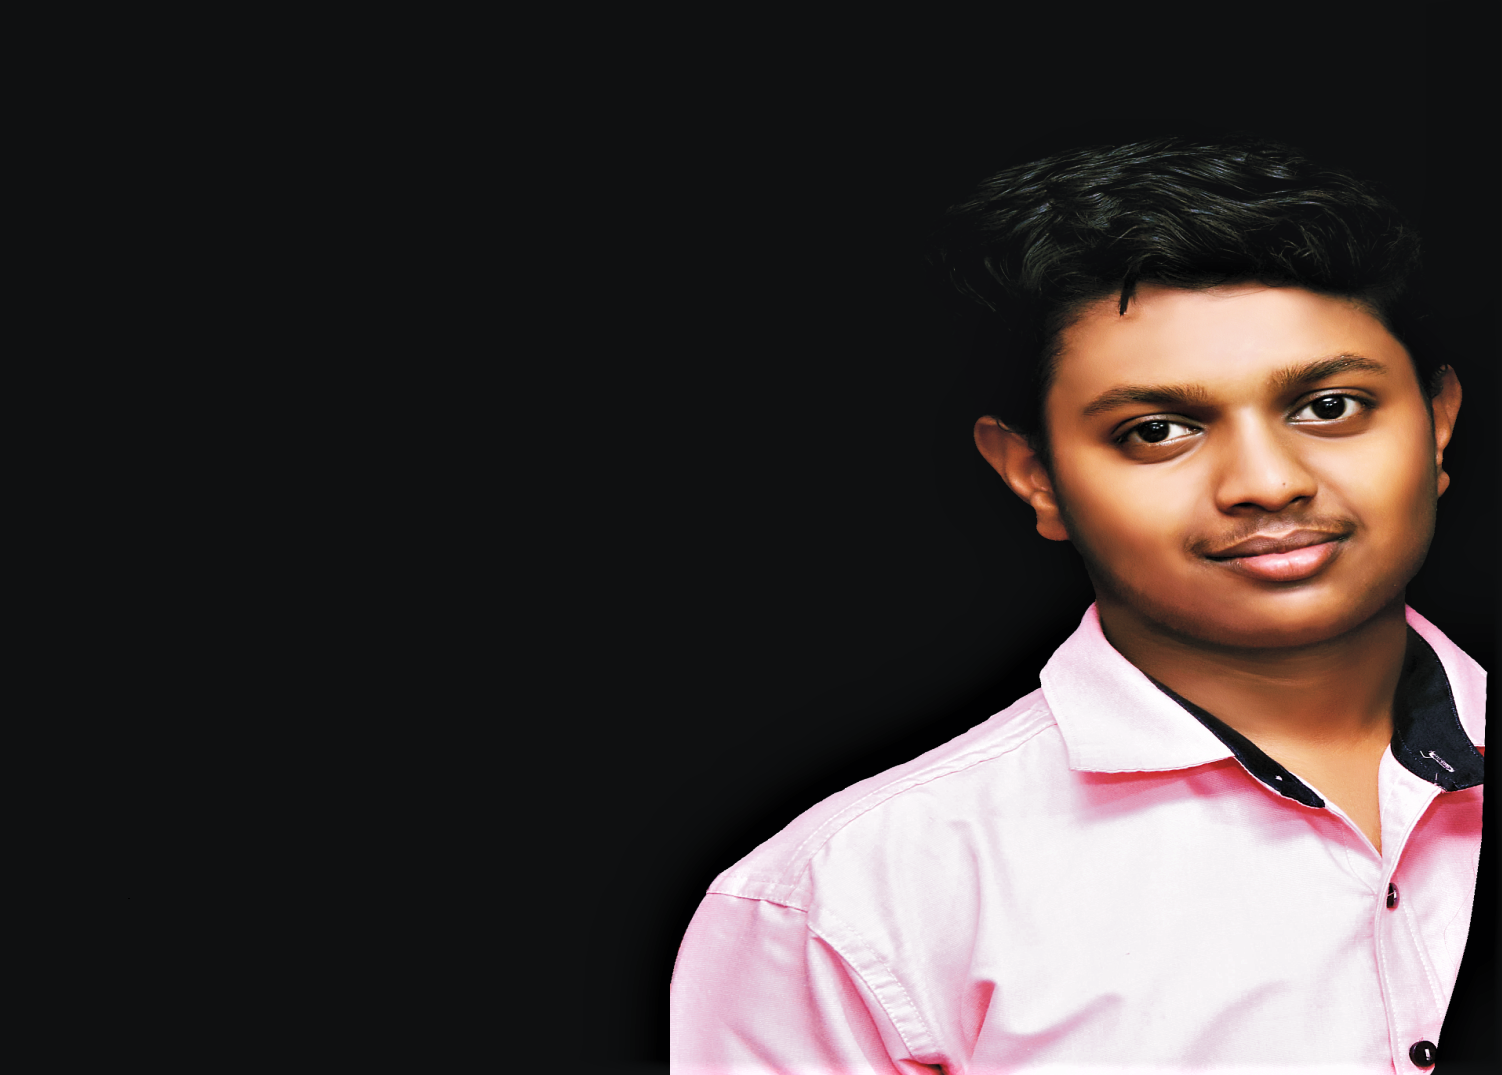
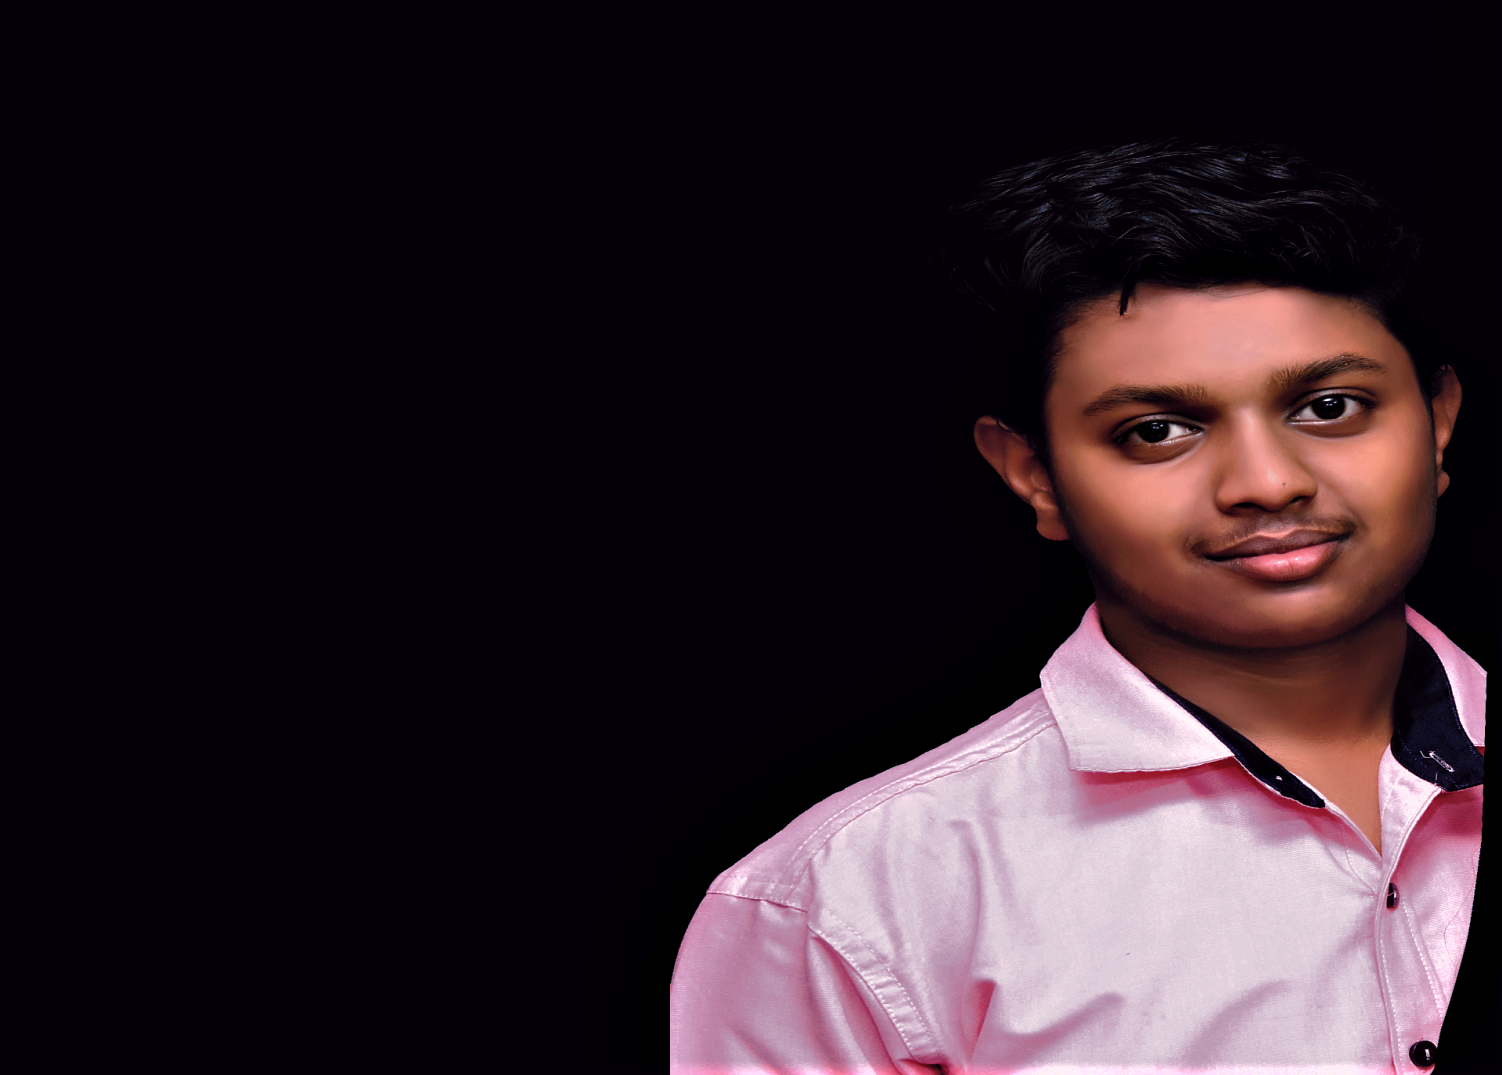
scrolling issue fix

Changed region(s): [[0.4288, 0.1228, 1.0, 1.0]]

diff --git a/style.css b/style.css
@@ -27,7 +27,7 @@ nav{
     flex-wrap: wrap;
 }
 .logo{
-    width: 125px;
+    width: 85px;
 }
 /*
  */
@@ -522,7 +522,7 @@ nav ul li{
     transition: 0.5s;
 }
 #header{
-    background-image: url(img/phone.jpg);
+    background-image: url(img/phoneback.jpg);
     background-size: cover;
 background-position: center;
 
